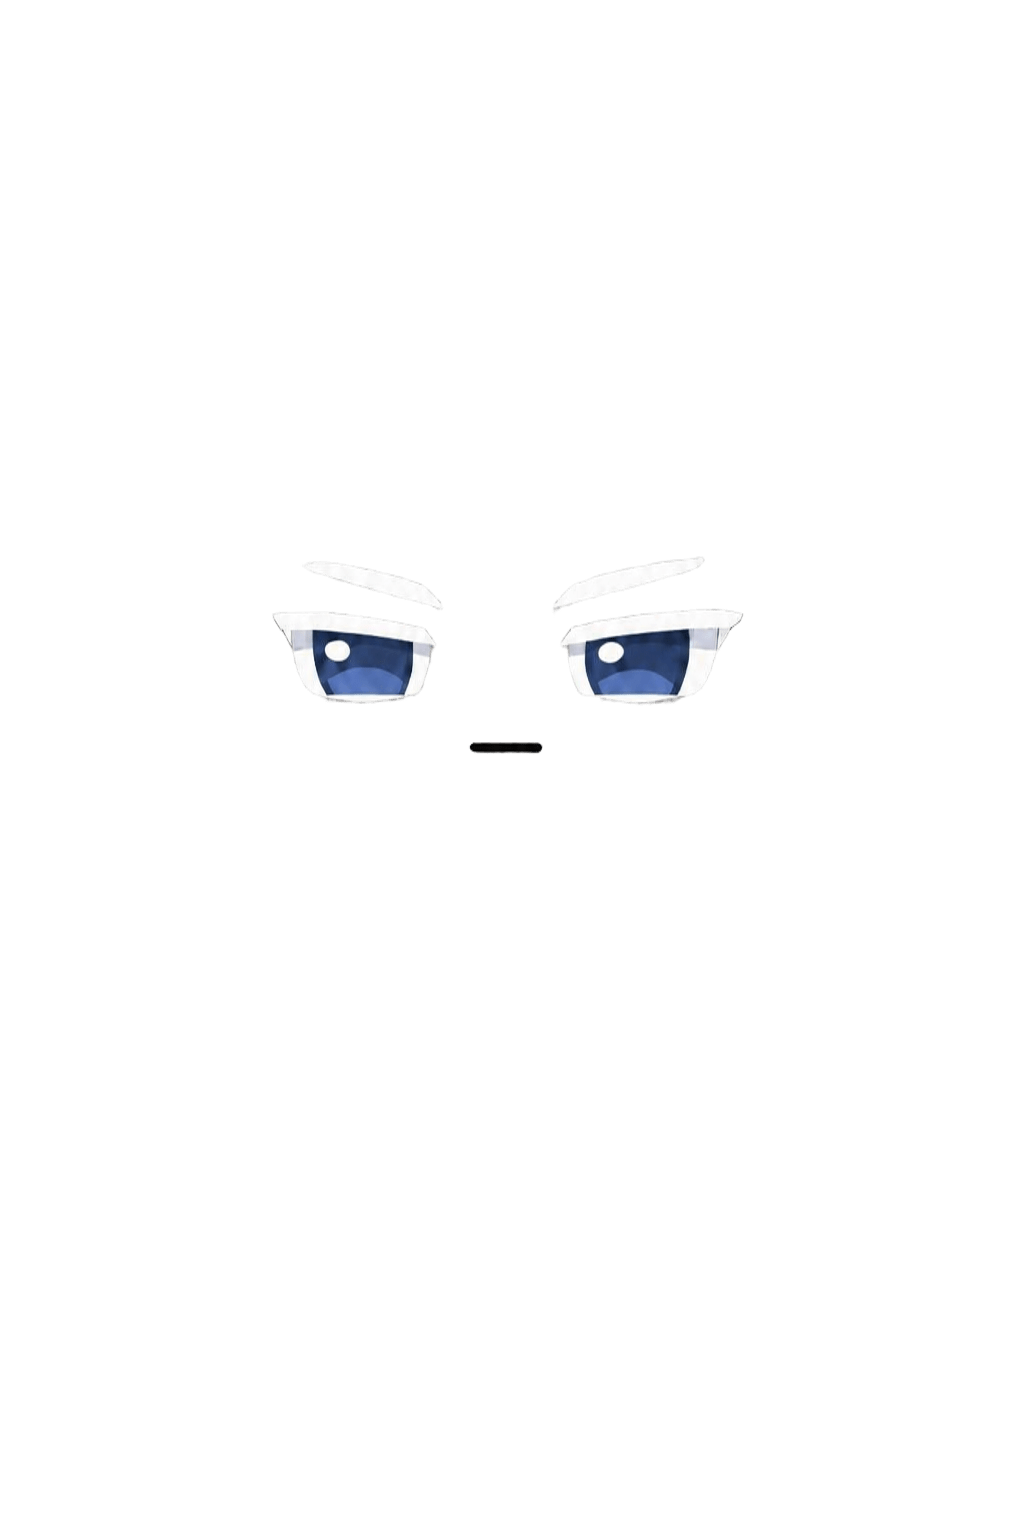
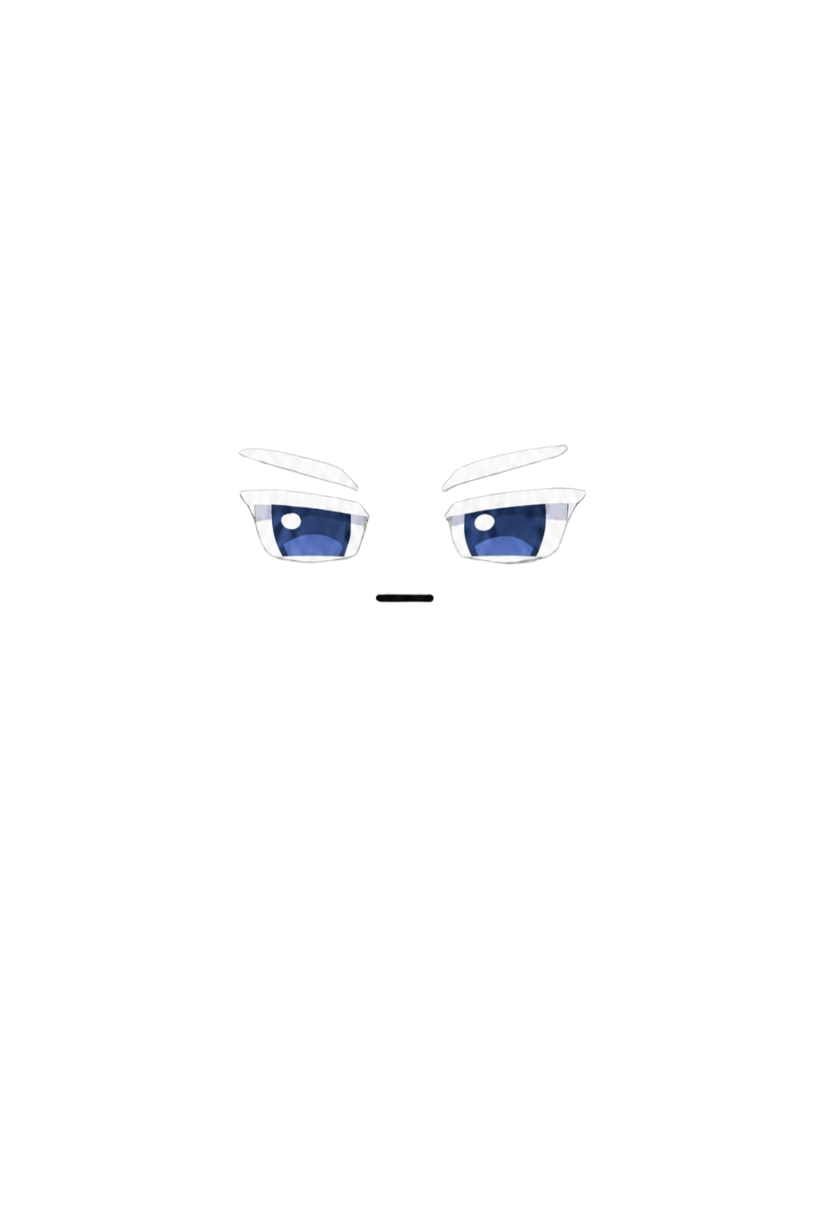
add 時裝11

Changed region(s): [[0.2747, 0.402, 0.4579, 0.4638], [0.641, 0.402, 0.7326, 0.4638], [0.5495, 0.402, 0.6105, 0.4638]]

diff --git a/src/data/storeCatalogData.js b/src/data/storeCatalogData.js
@@ -512,7 +512,7 @@ export const STORE_CATALOG_SOURCE = [
         "scale": 0.7,
         "x_pct": -2.95,
         "y_pct": -3.6,
-        "thumb_scale": 1.65,
+        "thumb_scale": 1.58,
         "thumb_x_pct": 0,
         "thumb_y_pct": 7.2
       },
@@ -767,23 +767,23 @@ export const STORE_CATALOG_SOURCE = [
       },
       "template-01": {
         "scale": 1,
-        "x_pct": 0,
-        "y_pct": 0,
+        "x_pct": 0.55,
+        "y_pct": -0.5,
         "visible": true
       },
       "template-02": {
         "scale": 0.6,
         "x_pct": -0.75,
-        "y_pct": 2.85,
+        "y_pct": 2.1,
         "visible": true
       }
     },
     "settings": {
       "store-outfit-09-hair_front": {
-        "scale": 1.1,
-        "x_pct": 2.6,
-        "y_pct": -2.95,
-        "thumb_scale": 1.12,
+        "scale": 1.12,
+        "x_pct": 3.9,
+        "y_pct": -1.95,
+        "thumb_scale": 1.16,
         "thumb_x_pct": 0,
         "thumb_y_pct": 15.7
       },
@@ -791,7 +791,7 @@ export const STORE_CATALOG_SOURCE = [
         "scale": 0.47,
         "x_pct": -2.95,
         "y_pct": 2.3,
-        "thumb_scale": 1.12,
+        "thumb_scale": 1.05,
         "thumb_x_pct": 0.65,
         "thumb_y_pct": 16.35
       },
@@ -799,25 +799,219 @@ export const STORE_CATALOG_SOURCE = [
         "scale": 0.76,
         "x_pct": -2.95,
         "y_pct": -5.25,
-        "thumb_scale": 1.42,
+        "thumb_scale": 1.29,
         "thumb_x_pct": 0,
         "thumb_y_pct": -1.3
       },
       "store-outfit-09-top_front": {
-        "scale": 0.54,
+        "scale": 0.51,
         "x_pct": -1.3,
-        "y_pct": 18.65,
+        "y_pct": 17.65,
         "thumb_scale": 1.05,
         "thumb_x_pct": 0,
         "thumb_y_pct": 1.95
       },
       "store-outfit-09-bottoms_front": {
         "scale": 0.4,
-        "x_pct": -1.3,
-        "y_pct": 27.8,
+        "x_pct": -1.65,
+        "y_pct": 27.4,
         "thumb_scale": 0.65,
         "thumb_x_pct": 0,
         "thumb_y_pct": 13.75
+      }
+    }
+  },
+  {
+    "id": "outfit-10",
+    "published": true,
+    "pieces": {
+      "hair": {
+        "id": "store-outfit-10-hair",
+        "label": "套裝 10・頭部",
+        "front": "store/hair/頭髮10-1.png",
+        "back": "store/hair/頭髮10-2.png",
+        "thumb": "store/hair/頭髮10-0.png"
+      },
+      "face": {
+        "id": "store-outfit-10-face",
+        "label": "套裝 10・臉部",
+        "front": "store/face/表情10.png"
+      },
+      "top": {
+        "id": "store-outfit-10-top",
+        "label": "套裝 10・上半身",
+        "front": "store/top/上衣10.png",
+        "thumb": "store/top/上衣10-0.png"
+      },
+      "bottoms": {
+        "id": "store-outfit-10-bottoms",
+        "label": "套裝 10・下半身",
+        "front": "store/bottoms/褲裝10.png"
+      }
+    },
+    "templates": {
+      "template-03": {
+        "scale": 1,
+        "x_pct": 0,
+        "y_pct": -24.8,
+        "visible": false
+      },
+      "template-00": {
+        "scale": 1,
+        "x_pct": 0,
+        "y_pct": -0.7,
+        "visible": false
+      },
+      "template-01": {
+        "scale": 1,
+        "x_pct": 0.55,
+        "y_pct": -0.5,
+        "visible": true
+      },
+      "template-02": {
+        "scale": 0.41,
+        "x_pct": -0.5,
+        "y_pct": 3.1,
+        "visible": true
+      }
+    },
+    "settings": {
+      "store-outfit-10-hair_front": {
+        "scale": 0.89,
+        "x_pct": 1.65,
+        "y_pct": -5.55,
+        "thumb_scale": 1,
+        "thumb_x_pct": 0,
+        "thumb_y_pct": 10.45
+      },
+      "store-outfit-10-hair_back": {
+        "scale": 1,
+        "x_pct": 15.7,
+        "y_pct": -3.6,
+        "thumb_scale": 1,
+        "thumb_x_pct": 0,
+        "thumb_y_pct": 0
+      },
+      "store-outfit-10-top_front": {
+        "scale": 0.59,
+        "x_pct": -0.35,
+        "y_pct": 23.2,
+        "thumb_scale": 1,
+        "thumb_x_pct": 0,
+        "thumb_y_pct": 4.55
+      },
+      "store-outfit-10-face_front": {
+        "scale": 0.63,
+        "x_pct": -2.95,
+        "y_pct": -6.2,
+        "thumb_scale": 1.29,
+        "thumb_x_pct": 0,
+        "thumb_y_pct": 4.55
+      },
+      "store-outfit-10-bottoms_front": {
+        "scale": 0.49,
+        "x_pct": -0.9,
+        "y_pct": 28.8,
+        "thumb_scale": 1,
+        "thumb_x_pct": 0,
+        "thumb_y_pct": 0
+      }
+    }
+  },
+  {
+    "id": "outfit-11",
+    "published": true,
+    "pieces": {
+      "hair": {
+        "id": "store-outfit-11-hair",
+        "label": "套裝 11・頭部",
+        "front": "store/hair/頭髮11-1.png",
+        "back": "store/hair/頭髮11-2.png",
+        "thumb": "store/hair/頭髮11-0.png"
+      },
+      "face": {
+        "id": "store-outfit-11-face",
+        "label": "套裝 11・臉部",
+        "front": "store/face/表情11.png"
+      },
+      "top": {
+        "id": "store-outfit-11-top",
+        "label": "套裝 11・上半身",
+        "front": "store/top/上衣11.png",
+        "thumb": "store/top/上衣11-0.png"
+      },
+      "bottoms": {
+        "id": "store-outfit-11-bottoms",
+        "label": "套裝 11・下半身",
+        "front": "store/bottoms/褲裝11.png"
+      }
+    },
+    "templates": {
+      "template-03": {
+        "scale": 1,
+        "x_pct": 0,
+        "y_pct": -24.8,
+        "visible": false
+      },
+      "template-00": {
+        "scale": 1,
+        "x_pct": 0,
+        "y_pct": -0.7,
+        "visible": false
+      },
+      "template-01": {
+        "scale": 1,
+        "x_pct": 0.55,
+        "y_pct": -0.5,
+        "visible": true
+      },
+      "template-02": {
+        "scale": 0.39,
+        "x_pct": -0.5,
+        "y_pct": 3.1,
+        "visible": true
+      }
+    },
+    "settings": {
+      "store-outfit-11-hair_front": {
+        "scale": 0.85,
+        "x_pct": 0,
+        "y_pct": -9.8,
+        "thumb_scale": 0.97,
+        "thumb_x_pct": 0,
+        "thumb_y_pct": 6.55
+      },
+      "store-outfit-11-hair_back": {
+        "scale": 1.13,
+        "x_pct": -0.35,
+        "y_pct": 1.95,
+        "thumb_scale": 0.97,
+        "thumb_x_pct": 0,
+        "thumb_y_pct": 6.55
+      },
+      "store-outfit-11-top_front": {
+        "scale": 0.69,
+        "x_pct": -0.65,
+        "y_pct": 12.75,
+        "thumb_scale": 1.11,
+        "thumb_x_pct": 0,
+        "thumb_y_pct": -10.45
+      },
+      "store-outfit-11-bottoms_front": {
+        "scale": 0.48,
+        "x_pct": 0,
+        "y_pct": 29.75,
+        "thumb_scale": 1,
+        "thumb_x_pct": 0,
+        "thumb_y_pct": 0
+      },
+      "store-outfit-11-face_front": {
+        "scale": 0.94,
+        "x_pct": -2.6,
+        "y_pct": 0.65,
+        "thumb_scale": 1.81,
+        "thumb_x_pct": 0,
+        "thumb_y_pct": 16.35
       }
     }
   }

diff --git a/src/styles/QuizHome.css b/src/styles/QuizHome.css
@@ -45,7 +45,7 @@
 .quiz-create-panel {
   min-height: 238px;
   padding: clamp(26px, 3vw, 38px);
-  background: #58468e;
+  background: #6d47d7;
   display: flex;
   flex-direction: column;
 }
